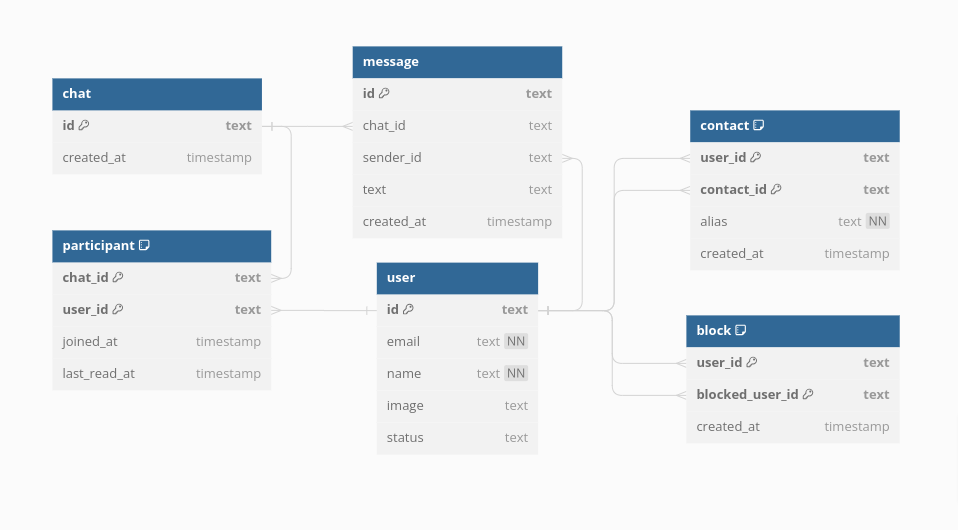
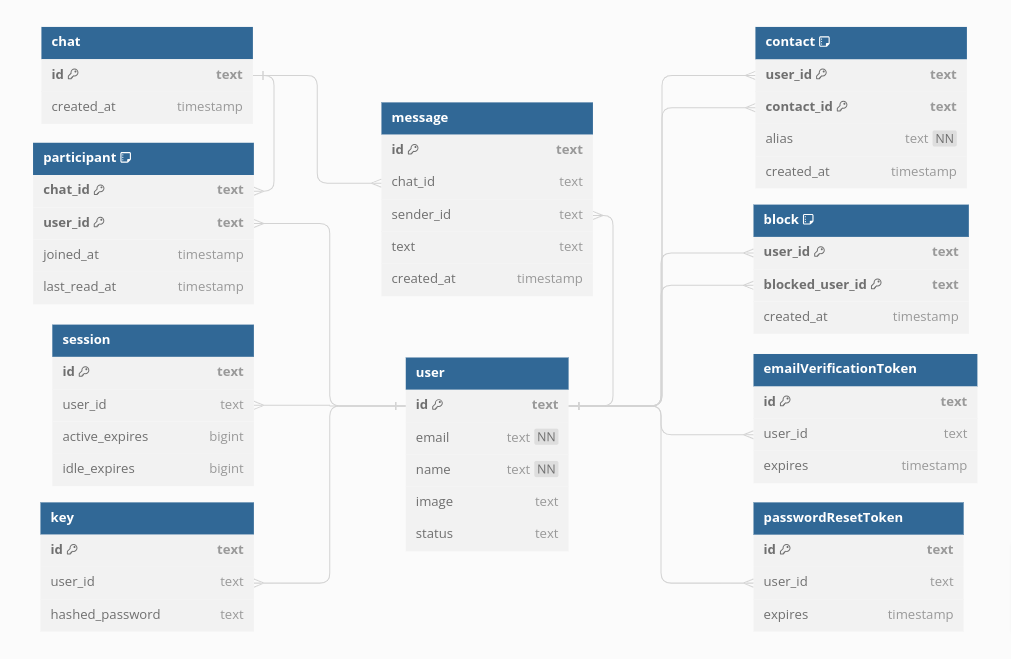
docs: update docs w/email

diff --git a/src/lib/db/schema.ts b/src/lib/db/schema.ts
@@ -39,8 +39,27 @@ export const block = sqliteTable("block", {
     .references(() => user.id, { onDelete: "cascade" }).notNull(),
   createdAt: integer("created_at", { mode: "timestamp" }),
 }, (p) => ({
+
   compoundKey: primaryKey(p.userId, p.blockedUserId),
 }));
+
+export const emailVerificationToken = sqliteTable("email_verification_token", {
+  id: text("id").primaryKey().$defaultFn(() => uuidv4()),
+    userId: text("user_id")
+  .references(() => user.id, { onDelete: "cascade" })
+  .notNull(),
+  token: text("token").notNull().unique(),
+  expires: integer("expires", { mode: "timestamp" }).notNull()
+});
+
+export const passwordResetToken = sqliteTable("password_reset_token", {
+  id: text("id").primaryKey().$defaultFn(() => uuidv4()),
+    userId: text("user_id")
+  .references(() => user.id, { onDelete: "cascade" })
+  .notNull(),
+  token: text("token").notNull(),
+  expires: integer("expires", { mode: "timestamp" }).notNull()
+});
 
 // auth tables (lucia)
 
@@ -73,22 +92,4 @@ export const key = sqliteTable("user_key", {
     .notNull()
     .references(() => user.id, { onDelete: "cascade" }),
   hashedPassword: text("hashed_password")
-});
-
-export const emailVerificationToken = sqliteTable("email_verification_token", {
-  id: text("id").primaryKey().$defaultFn(() => uuidv4()),
-  userId: text("user_id")
-    .references(() => user.id, { onDelete: "cascade" })
-    .notNull(),
-  token: text("token").notNull().unique(),
-  expires: integer("expires", { mode: "timestamp" }).notNull()
-});
-
-export const passwordResetToken = sqliteTable("password_reset_token", {
-  id: text("id").primaryKey().$defaultFn(() => uuidv4()),
-  userId: text("user_id")
-    .references(() => user.id, { onDelete: "cascade" })
-    .notNull(),
-  token: text("token").notNull(),
-  expires: integer("expires", { mode: "timestamp" }).notNull()
 });

diff --git a/src/routes/(app)/profile/_components/EditProfile.svelte b/src/routes/(app)/profile/_components/EditProfile.svelte
@@ -93,10 +93,8 @@
       />
     {/if}
 
-    {#if name && !untouched}
-      <Button isLoading={isUpdating} type="submit" class="ml-auto">
-        Save changes
-      </Button>
-    {/if}
+    <Button isLoading={isUpdating} type="submit" class="ml-auto">
+      Save changes
+    </Button>
   </form>
 </section>

diff --git a/README.md b/README.md
@@ -8,6 +8,7 @@ Chat with your friends and family from any device.
 - [Project structure](#project-structure)
 - [Environment variables](#environment-variables)
 - [Database setup](#database-setup)
+- [Email setup](#email-setup)
 - [Developing](#developing)
 - [Deployment](#deployment)
 - [List of commands](#list-of-commands)
@@ -30,6 +31,9 @@ Chat with your friends and family from any device.
 **Authentication**
 - [Lucia](https://lucia-auth.com/): Simple and flexible auth library for TypeScript.
 
+**Email**
+- [Nodemailer](https://nodemailer.com/): Send emails from Node.js.
+
 **Testing**
 - [Vitest](https://vitest.dev/): Next generation testing framework powered by Vite.
 - [Playwright](https://playwright.dev/): Reliable end-to-end testing for modern web apps. 
@@ -48,6 +52,8 @@ Chat with your friends and family from any device.
 │   │   │   └── Database config, schemas and queries using drizzle.
 │   │   ├── socket/
 │   │   │   └── WebSocket server using socket.io. 
+│   │   ├── email/
+│   │   │   └── Email config, templates and functions.
 │   │   ├── ui/
 │   │   │   └── Reusable UI components.
 │   │   └── utils/
@@ -57,6 +63,8 @@ Chat with your friends and family from any device.
 │   
 └── Config files.
 ```
+
+[Reference](https://kit.svelte.dev/docs/project-structure)
 
 ## Installation
 
@@ -78,9 +86,18 @@ npm install
 To run this project, you will need to add the following environment variables to your `.env` file
 
 ```
+# Private
 # Oauth providers
 GITHUB_ID=""
 GITHUB_SECRET=""
+
+# Email
+SENDGRID_API_KEY=""
+SENDER_ADDRESS=""
+SENDER_NAME=""
+
+# Public
+PUBLIC_SITE_URL="http://localhost:5173"
 ```
 
 You can create a copy of the `.env.example` file to `.env` and populate it with your secrets.
@@ -91,7 +108,7 @@ cp .env.example .env
 
 ## Database setup
 
-This project uses SQLite with better-sqlite3, and DrizzleORM.
+This project uses [SQLite](https://www.sqlite.org/index.html) with [better-sqlite3](https://www.sqlite.org/index.html), and [DrizzleORM](https://orm.drizzle.team/).
 
 Your database will be stored in a single `sqlite.db` file at the root of your project, and your SQL migrations will be stored under the `drizzle/` folder.
 
@@ -116,6 +133,24 @@ npm run db:studio
 ```
 
 ![Database diagram](./doc/db-diagram.png)
+
+## Email setup
+
+This project uses [Nodemailer](https://nodemailer.com/) to send emails, and [SendGrid](https://sendgrid.com/) as a SMTP provider.
+
+There are several alternatives that you could use as SMPT provider ([Mailgun](https://www.mailgun.com/), [AWS SES](https://aws.amazon.com/es/ses/), etc).
+
+If you choose to use SendGrid:
+
+- Create your account.
+- Create a verified single sender. (You can choose a real email, or setup your domain, e.g. noreply@your-domain.com)
+- Create your API key.
+- Populate your .env.
+
+[Reference](https://midnightgamer.medium.com/how-to-use-sendgrid-with-nodemailer-to-send-mails-a289f30af622)
+
+If you choose a different provider, you might need to change the email config at
+`src/lib/email/email.ts`.
 
 ## Developing
 
